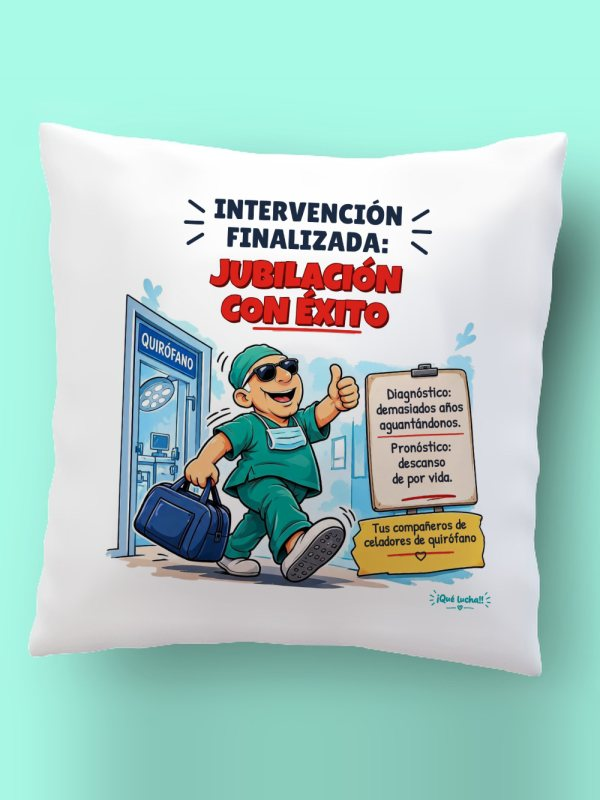
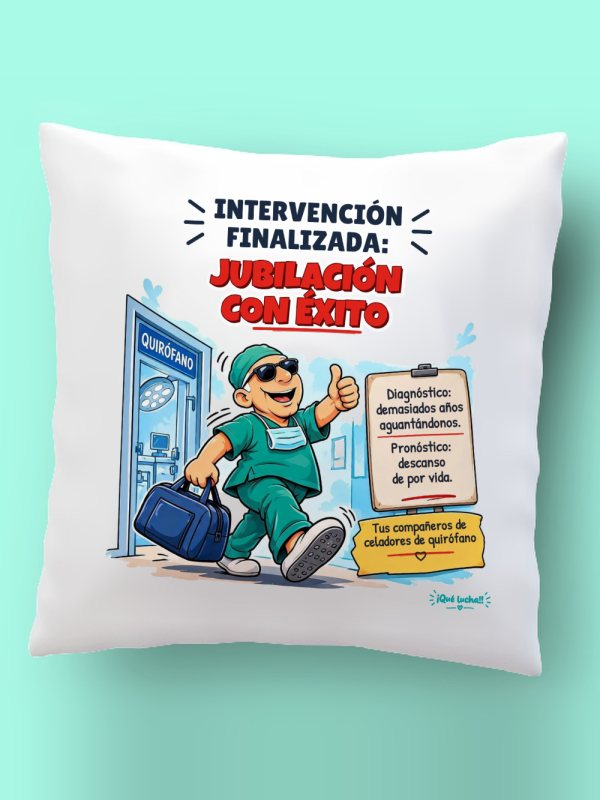
Cojín: colores más vivos en la vista sobre el cojín (sin oscurecer el diseño)
Claude-Session: https://claude.ai/code/session_014LaVctRrhVae6yt1R8LZ7H

Changed region(s): [[0.21, 0.5, 0.81, 0.75], [0.27, 0.5625, 0.39, 0.625]]

diff --git a/textos.js b/textos.js
@@ -196,7 +196,9 @@ function dibujarMockup(cv,d,diseno,foto){
   const g=cv.getContext("2d"); g.drawImage(foto,0,0,mk.w,mk.h);
   const k=1000/diseno.width, m=mk.m;
   g.save(); g.globalCompositeOperation="multiply"; g.setTransform(m[0]*k,m[1]*k,m[2]*k,m[3]*k,m[4],m[5]);
-  g.imageSmoothingQuality="high"; g.drawImage(diseno,0,0); g.restore();
+  g.imageSmoothingQuality="high"; g.drawImage(diseno,0,0);
+  // El cojín de la foto es gris claro: se mezcla con el diseño normal para no oscurecer los colores
+  g.globalCompositeOperation="source-over"; g.globalAlpha=0.55; g.drawImage(diseno,0,0); g.restore();
 }
 window.QLTextos={DISENOS,FORMAS,personaje,cargar,cargarFuentes,dibujar,ajustar,cargarMockup,dibujarMockup};
 })();
